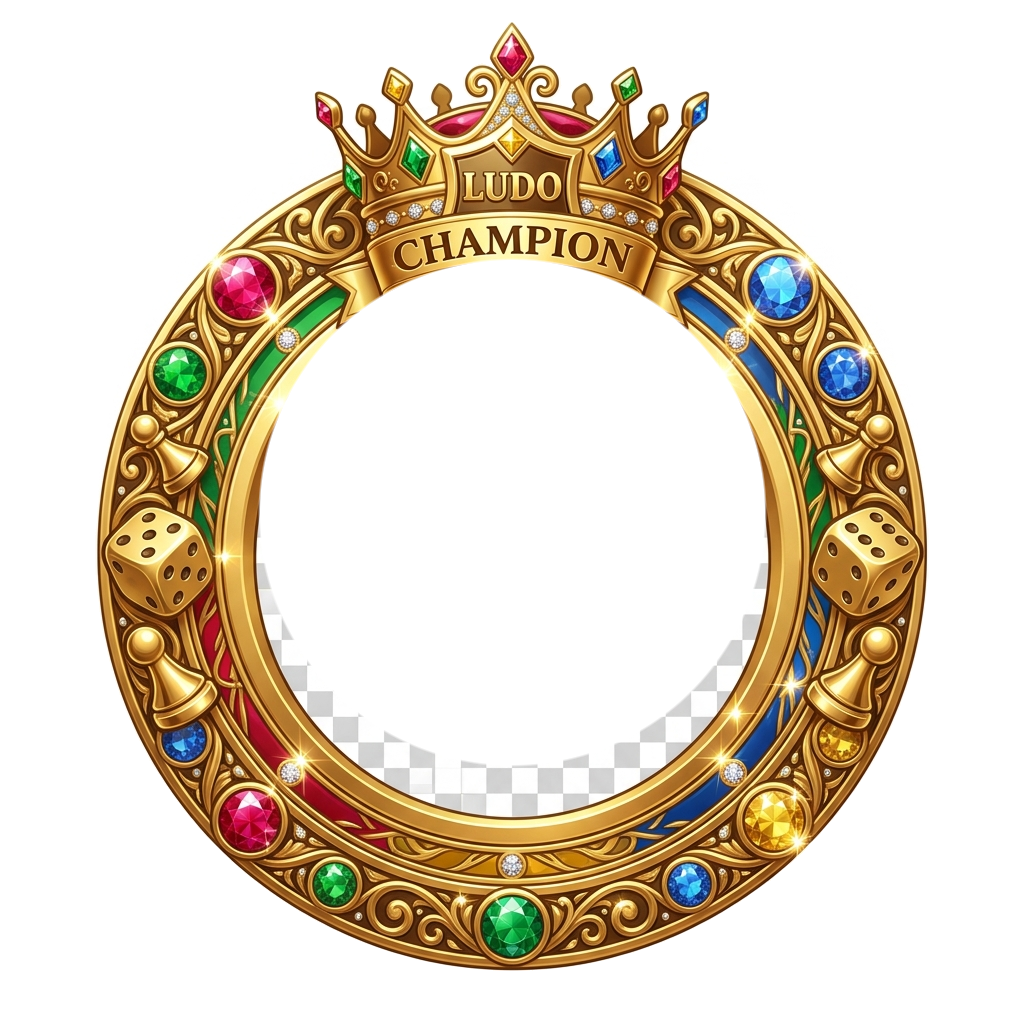
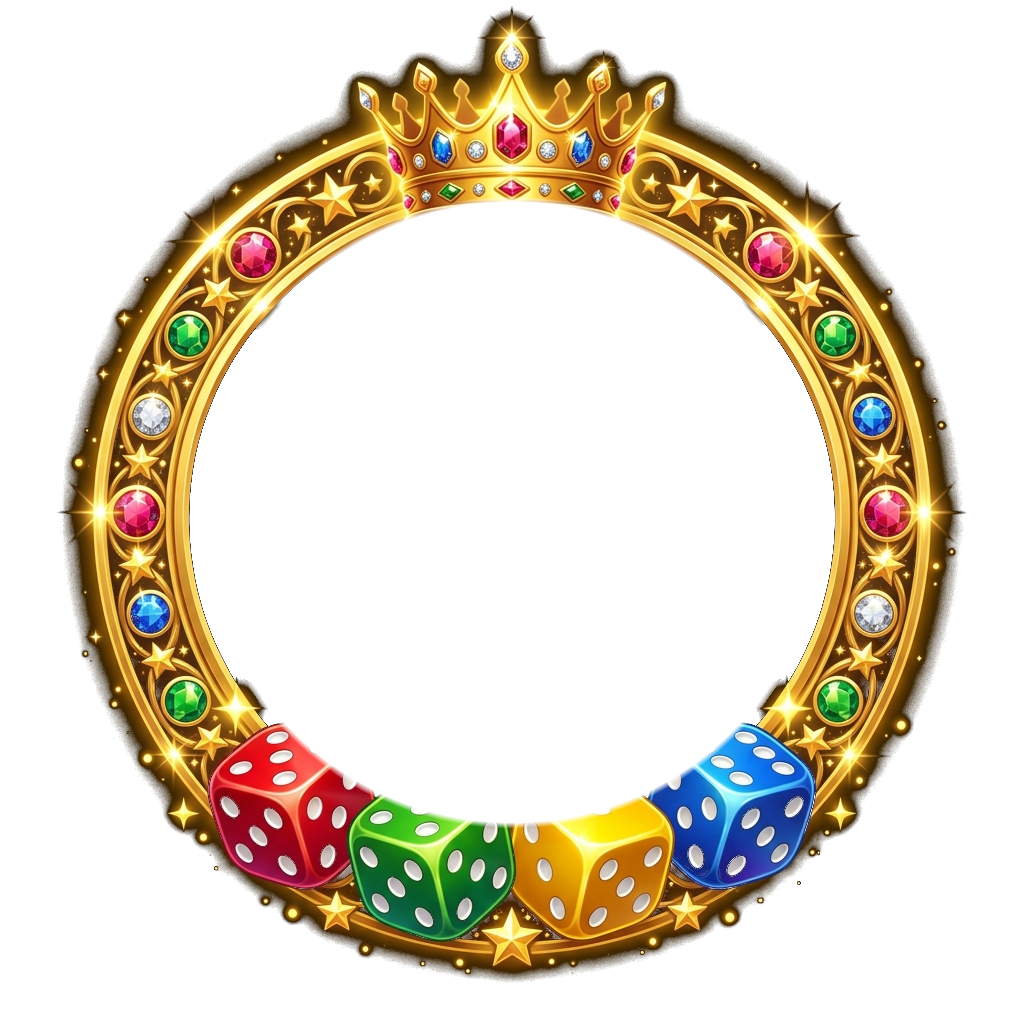
update

diff --git a/mobile/src/components/AvatarWithFrame.js b/mobile/src/components/AvatarWithFrame.js
@@ -4,16 +4,19 @@ import { WebView } from 'react-native-webview';
 import AnimatedSeatEmoji from './AnimatedSeatEmoji';
 import { getUserLevelSvg } from '../constants/userLevelSvgFrames';
 import { getLevelTierInfo } from '../constants/userLevelSystem';
+import { getLudoFrameSkin } from '../constants/ludoFrameAssets';
 
 export default function AvatarWithFrame({
   avatarUri,
   level = 1,
   size = 54,
+  frame = null,
   frameName = '',
   showLevelBadge = false,
   activeEmoji = null,
   onEmojiComplete = null,
   style,
+  avatarStyle,
   disableSvgFrame = false,
 }) {
   const safeLevel = Math.max(1, Math.min(100, Math.floor(Number(level) || 1)));
@@ -33,6 +36,24 @@ export default function AvatarWithFrame({
   // Avatar top-left position
   const avatarLeft = Math.round(avatarCenterX - size / 2);
   const avatarTop = Math.round(avatarCenterY - size / 2);
+
+  // Check if a custom store frame (e.g. Ludo frame) is equipped
+  const customFrameSkin = useMemo(() => {
+    if (!frame) return null;
+    const frameId = typeof frame === 'string' ? frame : frame?.id;
+    // Default level frame strings are not custom store frames
+    if (frameId && (frameId.startsWith('level_') || frameId === 'level_01')) {
+      return null;
+    }
+    const skin = getLudoFrameSkin(frame);
+    if (skin?.image) return skin;
+    if (frame?.image) return frame;
+    return null;
+  }, [frame]);
+
+  const customFrameSize = Math.round(size * 1.55);
+  const customFrameLeft = Math.round(avatarCenterX - customFrameSize / 2);
+  const customFrameTop = Math.round(avatarCenterY - customFrameSize / 2);
 
   // Load raw SVG XML for the user's current level (1 to 100)
   const rawSvgXml = useMemo(() => {
@@ -125,8 +146,29 @@ export default function AvatarWithFrame({
         )}
       </View>
 
-      {/* 2. Vector Animated Level Frame (100% Exact SVG Animations on Android, iOS & Web) */}
-      {!disableSvgFrame && rawSvgXml && (
+      {/* 2. Custom Store Frame (e.g. 3D Ludo Frame) sitting right on the avatar border */}
+      {customFrameSkin && (
+        <Image
+          source={
+            typeof customFrameSkin.image === 'string'
+              ? { uri: customFrameSkin.image }
+              : customFrameSkin.image
+          }
+          style={{
+            position: 'absolute',
+            width: customFrameSize,
+            height: customFrameSize,
+            left: customFrameLeft,
+            top: customFrameTop,
+            zIndex: 10,
+          }}
+          resizeMode="contain"
+          pointerEvents="none"
+        />
+      )}
+
+      {/* 3. By-Default Vector Animated Level Frame (when no custom store frame is equipped) */}
+      {!customFrameSkin && !disableSvgFrame && rawSvgXml && (
         <View style={StyleSheet.absoluteFillObject} pointerEvents="none">
           {Platform.OS === 'web' ? (
             /* Direct DOM HTML injection for Web: executes native browser SMIL animations */
@@ -210,6 +252,8 @@ const styles = StyleSheet.create({
     alignItems: 'center',
     justifyContent: 'center',
     backgroundColor: '#1E1E2E',
+    borderWidth: 2,
+    borderColor: '#FFFFFF',
     shadowColor: '#000',
     shadowOffset: { width: 0, height: 2 },
     shadowOpacity: 0.4,

diff --git a/mobile/src/components/UserAvatarWithFrame.js b/mobile/src/components/UserAvatarWithFrame.js
@@ -1,97 +1,33 @@
 import React from 'react';
-import { View, Image, StyleSheet } from 'react-native';
-import { getLudoFrameSkin } from '../constants/ludoFrameAssets';
+import AvatarWithFrame from './AvatarWithFrame';
 
 export default function UserAvatarWithFrame({
   avatarUri,
   avatarSource,
-  frame,
+  level = 1,
+  frame = null,
   size = 76,
   style,
   avatarStyle,
-  frameScale = 1.72,
+  activeEmoji = null,
+  onEmojiComplete = null,
+  showLevelBadge = false,
 }) {
-  // Resolve avatar source
-  const resolvedAvatar = avatarSource
-    ? avatarSource
-    : avatarUri
-    ? { uri: avatarUri }
-    : { uri: 'https://api.dicebear.com/7.x/bottts/png?seed=User' };
-
-  // Resolve frame skin
-  let resolvedFrameImg = null;
-  if (frame) {
-    const skin = getLudoFrameSkin(frame);
-    if (skin?.image) {
-      resolvedFrameImg = typeof skin.image === 'string' ? { uri: skin.image } : skin.image;
-    } else if (frame?.image) {
-      resolvedFrameImg = typeof frame.image === 'string' ? { uri: frame.image } : frame.image;
-    } else if (frame?.frameUrl) {
-      resolvedFrameImg = { uri: frame.frameUrl };
-    }
-  }
-
-  const frameSize = size * frameScale;
+  const resolvedUri = avatarSource
+    ? (typeof avatarSource === 'string' ? avatarSource : avatarSource?.uri)
+    : avatarUri;
 
   return (
-    <View style={[styles.container, { width: size, height: size }, style]}>
-      {/* 1. Underlying circular user avatar */}
-      <View
-        style={[
-          styles.avatarWrapper,
-          {
-            width: size,
-            height: size,
-            borderRadius: size / 2,
-            borderWidth: resolvedFrameImg ? 0 : 2,
-          },
-          avatarStyle,
-        ]}
-      >
-        <Image
-          source={resolvedAvatar}
-          style={styles.avatarImg}
-          resizeMode="cover"
-        />
-      </View>
-
-      {/* 2. Equipped 3D Ludo Frame Overlay */}
-      {resolvedFrameImg && (
-        <Image
-          source={resolvedFrameImg}
-          style={[
-            styles.frameOverlay,
-            {
-              width: frameSize,
-              height: frameSize,
-              top: (size - frameSize) / 2,
-              left: (size - frameSize) / 2,
-            },
-          ]}
-          resizeMode="contain"
-          pointerEvents="none"
-        />
-      )}
-    </View>
+    <AvatarWithFrame
+      avatarUri={resolvedUri}
+      level={level}
+      frame={frame}
+      size={size}
+      style={style}
+      avatarStyle={avatarStyle}
+      activeEmoji={activeEmoji}
+      onEmojiComplete={onEmojiComplete}
+      showLevelBadge={showLevelBadge}
+    />
   );
 }
-
-const styles = StyleSheet.create({
-  container: {
-    alignItems: 'center',
-    justifyContent: 'center',
-  },
-  avatarWrapper: {
-    borderColor: '#FFFFFF',
-    overflow: 'hidden',
-    backgroundColor: '#1E1E2D',
-  },
-  avatarImg: {
-    width: '100%',
-    height: '100%',
-  },
-  frameOverlay: {
-    position: 'absolute',
-    zIndex: 10,
-  },
-});

diff --git a/mobile/src/screens/UserProfileScreen.js b/mobile/src/screens/UserProfileScreen.js
@@ -868,14 +868,25 @@ export default function UserProfileScreen({ route, navigation, currentUser, onLo
 
           {/* Hero Avatar & CP Area */}
           <View style={styles.heroAvatarArea}>
-            {/* User Avatar Circle with Equipped Frame */}
+            {/* User Avatar Circle with Equipped Frame or Default Level Frame */}
             <UserAvatarWithFrame
               avatarUri={
                 profile.avatar ||
                 'https://api.dicebear.com/7.x/bottts/png?seed=' +
                   encodeURIComponent(profile.name || 'User')
               }
-              frame={isSelf ? (equippedFrame || profile.activeFrame) : profile.activeFrame}
+              frame={
+                isSelf
+                  ? (equippedFrame && equippedFrame.id && !equippedFrame.id.startsWith('level_')
+                      ? equippedFrame
+                      : (profile?.activeFrame && !profile.activeFrame.id?.startsWith('level_')
+                          ? profile.activeFrame
+                          : null))
+                  : (profile?.activeFrame && !profile.activeFrame.id?.startsWith('level_')
+                      ? profile.activeFrame
+                      : null)
+              }
+              level={profile.wealthLevel || profile.level || 1}
               size={76}
             />
 
@@ -1380,7 +1391,18 @@ export default function UserProfileScreen({ route, navigation, currentUser, onLo
                     'https://api.dicebear.com/7.x/bottts/png?seed=' +
                       encodeURIComponent(editName || 'User')
                   }
-                  frame={isSelf ? (equippedFrame || profile.activeFrame) : profile.activeFrame}
+                  frame={
+                    isSelf
+                      ? (equippedFrame && equippedFrame.id && !equippedFrame.id.startsWith('level_')
+                          ? equippedFrame
+                          : (profile?.activeFrame && !profile.activeFrame.id?.startsWith('level_')
+                              ? profile.activeFrame
+                              : null))
+                      : (profile?.activeFrame && !profile.activeFrame.id?.startsWith('level_')
+                          ? profile.activeFrame
+                          : null)
+                  }
+                  level={profile.wealthLevel || profile.level || 1}
                   size={86}
                 />
               </TouchableOpacity>

diff --git a/mobile/src/screens/StoreScreen.js b/mobile/src/screens/StoreScreen.js
@@ -2118,15 +2118,17 @@ const styles = StyleSheet.create({
     overflow: 'visible',
   },
   frameCardInnerWrap: {
-    width: 104,
-    height: 104,
+    width: 106,
+    height: 106,
     alignItems: 'center',
     justifyContent: 'center',
   },
   frameCardAvatarCircle: {
-    width: 60,
-    height: 60,
-    borderRadius: 30,
+    width: 66,
+    height: 66,
+    borderRadius: 33,
+    borderWidth: 2,
+    borderColor: '#FFFFFF',
     overflow: 'hidden',
     backgroundColor: '#1E1E2D',
   },
@@ -2136,19 +2138,21 @@ const styles = StyleSheet.create({
   },
   frameCardOverlayImg: {
     position: 'absolute',
-    width: 104,
-    height: 104,
+    width: 106,
+    height: 106,
   },
   previewFrameContainer: {
-    width: 170,
-    height: 170,
+    width: 180,
+    height: 180,
     alignItems: 'center',
     justifyContent: 'center',
   },
   previewFrameAvatarCircle: {
-    width: 98,
-    height: 98,
-    borderRadius: 49,
+    width: 114,
+    height: 114,
+    borderRadius: 57,
+    borderWidth: 2.5,
+    borderColor: '#FFFFFF',
     overflow: 'hidden',
     backgroundColor: '#1E1E2D',
   },
@@ -2158,20 +2162,22 @@ const styles = StyleSheet.create({
   },
   previewFrameOverlayImg: {
     position: 'absolute',
-    width: 170,
-    height: 170,
+    width: 180,
+    height: 180,
   },
   applyFrameContainer: {
-    width: 140,
-    height: 140,
+    width: 150,
+    height: 150,
     alignItems: 'center',
     justifyContent: 'center',
     marginVertical: 12,
   },
   applyFrameAvatarCircle: {
-    width: 80,
-    height: 80,
-    borderRadius: 40,
+    width: 95,
+    height: 95,
+    borderRadius: 47.5,
+    borderWidth: 2,
+    borderColor: '#FFFFFF',
     overflow: 'hidden',
     backgroundColor: '#1E1E2D',
   },
@@ -2181,7 +2187,7 @@ const styles = StyleSheet.create({
   },
   applyFrameOverlayImg: {
     position: 'absolute',
-    width: 140,
-    height: 140,
+    width: 150,
+    height: 150,
   },
 });

diff --git a/mobile/src/components/MeProfileView.js b/mobile/src/components/MeProfileView.js
@@ -422,7 +422,7 @@ export default function MeProfileView({
           }
         }}
       >
-        {/* User Avatar with Equipped Frame */}
+        {/* User Avatar with Equipped Frame or Default Level Frame */}
         <UserAvatarWithFrame
           avatarUri={
             profile?.avatar ||
@@ -430,7 +430,16 @@ export default function MeProfileView({
             'https://api.dicebear.com/7.x/bottts/png?seed=' +
               encodeURIComponent(profile?.name || currentUser?.name || 'User')
           }
-          frame={equippedFrame || profile?.activeFrame || currentUser?.activeFrame}
+          frame={
+            equippedFrame && equippedFrame.id && !equippedFrame.id.startsWith('level_')
+              ? equippedFrame
+              : profile?.activeFrame && !profile.activeFrame.id?.startsWith('level_')
+              ? profile.activeFrame
+              : currentUser?.activeFrame && !currentUser.activeFrame.id?.startsWith('level_')
+              ? currentUser.activeFrame
+              : null
+          }
+          level={profile?.wealthLevel || profile?.level || currentUser?.wealthLevel || 1}
           size={66}
         />
 
